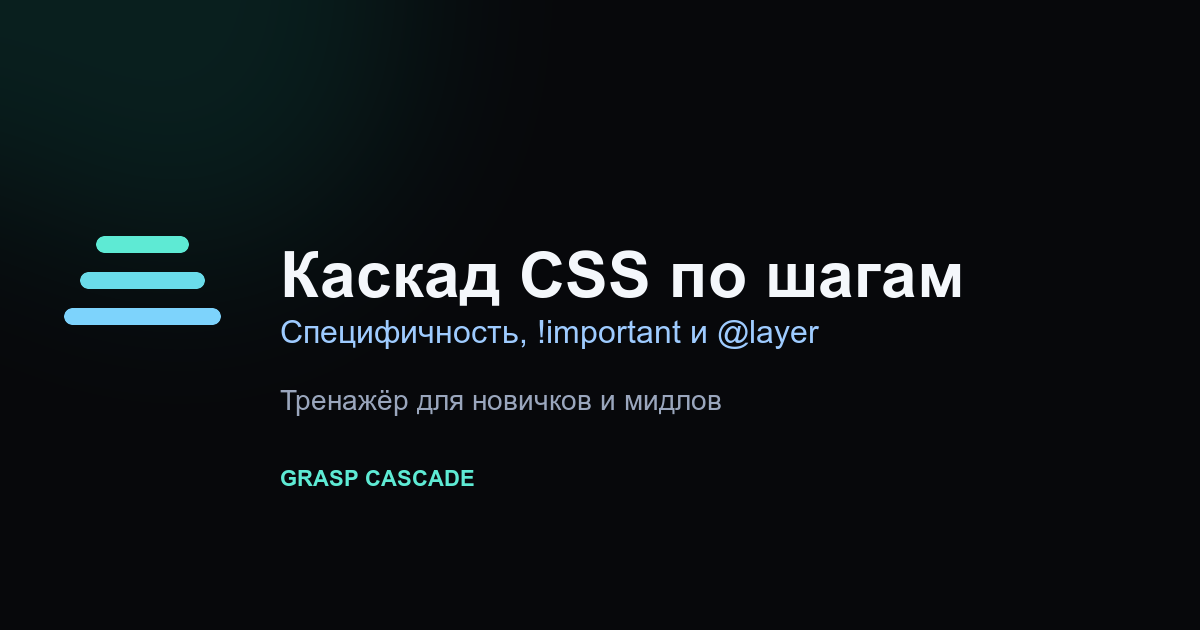
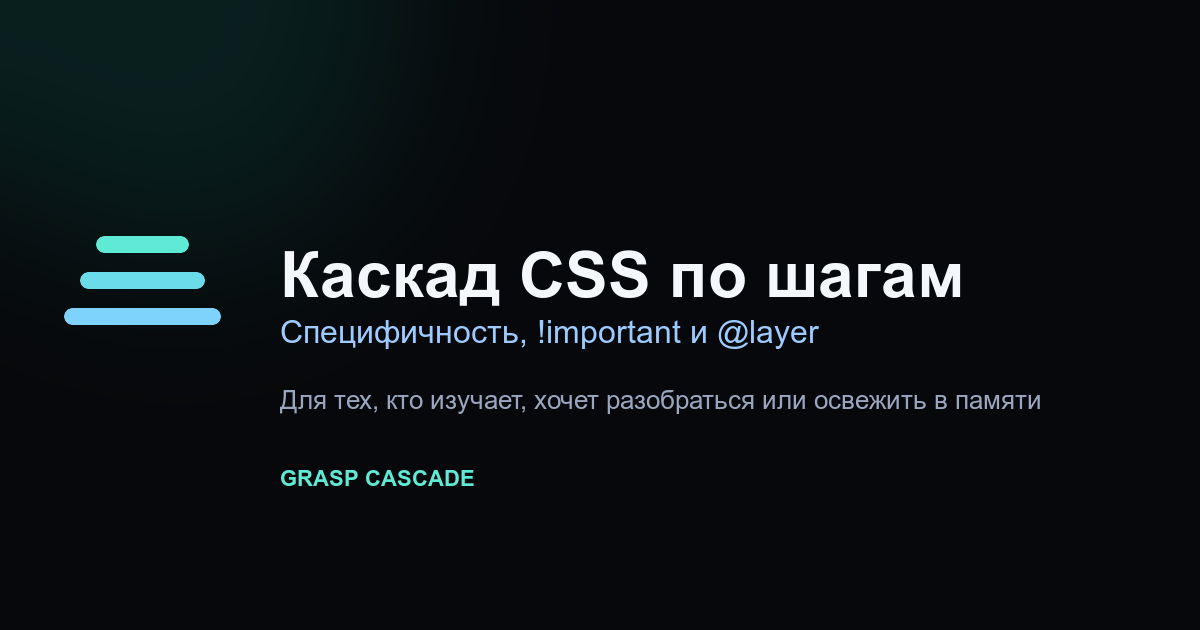
iii

Changed region(s): [[0.2158, 0.6032, 0.8633, 0.6635]]

diff --git a/index.html b/index.html
@@ -4,10 +4,10 @@
     <meta charset="UTF-8" />
     <link rel="icon" type="image/svg+xml" href="/favicon.svg" />
     <meta name="viewport" content="width=device-width, initial-scale=1, viewport-fit=cover" />
-    <title>Каскад CSS по шагам — специфичность для новичков и мидлов</title>
+    <title>Каскад CSS по шагам — изучить, разобраться, освежить</title>
     <meta
       name="description"
-      content="Тренажёр каскада CSS для тех, кто изучает фронтенд. Новичкам и мидлам: почему победил селектор, как считается специфичность, !important и слои @layer."
+      content="Тренажёр каскада CSS для тех, кто изучает, хочет разобраться или освежить в памяти, почему победил селектор: специфичность, !important и слои @layer."
     />
     <link rel="canonical" href="https://grasp-cascade.dev/" />
     <meta name="robots" content="index, follow, max-image-preview:large" />
@@ -17,25 +17,25 @@
     <meta property="og:locale" content="ru_RU" />
     <meta property="og:site_name" content="Grasp Cascade" />
     <meta property="og:url" content="https://grasp-cascade.dev/" />
-    <meta property="og:title" content="Каскад CSS по шагам — специфичность для новичков и мидлов" />
+    <meta property="og:title" content="Каскад CSS по шагам — изучить, разобраться, освежить" />
     <meta
       property="og:description"
-      content="Тренажёр каскада CSS для тех, кто изучает фронтенд. Новичкам и мидлам: почему победил селектор, как считается специфичность, !important и слои @layer."
+      content="Тренажёр каскада CSS для тех, кто изучает, хочет разобраться или освежить в памяти, почему победил селектор: специфичность, !important и слои @layer."
     />
     <meta property="og:image" content="https://grasp-cascade.dev/og.png" />
     <meta property="og:image:secure_url" content="https://grasp-cascade.dev/og.png" />
     <meta property="og:image:type" content="image/png" />
     <meta property="og:image:width" content="1200" />
     <meta property="og:image:height" content="630" />
-    <meta property="og:image:alt" content="Grasp Cascade: каскад CSS по шагам для новичков и мидлов" />
+    <meta property="og:image:alt" content="Grasp Cascade: каскад CSS по шагам для тех, кто изучает, хочет разобраться или освежить в памяти" />
     <meta name="twitter:card" content="summary_large_image" />
-    <meta name="twitter:title" content="Каскад CSS по шагам — специфичность для новичков и мидлов" />
+    <meta name="twitter:title" content="Каскад CSS по шагам — изучить, разобраться, освежить" />
     <meta
       name="twitter:description"
-      content="Тренажёр каскада CSS для тех, кто изучает фронтенд. Новичкам и мидлам: почему победил селектор, как считается специфичность, !important и слои @layer."
+      content="Тренажёр каскада CSS для тех, кто изучает, хочет разобраться или освежить в памяти, почему победил селектор: специфичность, !important и слои @layer."
     />
     <meta name="twitter:image" content="https://grasp-cascade.dev/og.png" />
-    <meta name="twitter:image:alt" content="Grasp Cascade: каскад CSS по шагам для новичков и мидлов" />
+    <meta name="twitter:image:alt" content="Grasp Cascade: каскад CSS по шагам для тех, кто изучает, хочет разобраться или освежить в памяти" />
     <script type="application/ld+json">
       {
         "@context": "https://schema.org",
@@ -46,7 +46,7 @@
             "url": "https://grasp-cascade.dev/",
             "image": "https://grasp-cascade.dev/og.png",
             "inLanguage": "ru",
-            "description": "Интерактивный тренажёр каскада CSS для новичков и мидлов, которые изучают фронтенд."
+            "description": "Интерактивный тренажёр каскада CSS для тех, кто изучает, хочет разобраться или освежить в памяти."
           },
           {
             "@type": "LearningResource",
@@ -56,11 +56,10 @@
             "inLanguage": "ru",
             "isAccessibleForFree": true,
             "learningResourceType": "интерактивный тренажёр",
-            "educationalLevel": ["Beginner", "Intermediate"],
             "audience": {
               "@type": "EducationalAudience",
               "educationalRole": "student",
-              "audienceType": "Новички и мидлы, которые изучают фронтенд"
+              "audienceType": "Те, кто изучает фронтенд, хочет разобраться или освежить каскад CSS в памяти"
             },
             "teaches": ["Каскад CSS", "Специфичность селекторов", "!important", "Слои @layer"],
             "description": "Пошаговый разбор, почему у элемента победило именно это значение: вес селектора, важность !important, слой @layer и порядок в исходнике."
@@ -81,7 +80,7 @@
       <main>
         <h1>Каскад CSS по шагам</h1>
         <p>
-          Grasp Cascade — интерактивный тренажёр для тех, кто изучает фронтенд. Новичкам он показывает, почему одно CSS-правило побеждает другое. Мидлам помогает разобрать специфичность селектора, флаг !important и слои @layer на конкретных примерах.
+          Grasp Cascade — интерактивный тренажёр каскада CSS для тех, кто изучает, хочет разобраться или освежить в памяти, почему одно правило побеждает другое: специфичность селектора, флаг !important и слои @layer.
         </p>
         <p>
           На каждом шаге видно, какой селектор подошёл к элементу, какой у него вес и какое объявление из-за этого выбыло. Код можно изменить и пересчитать каскад заново.
